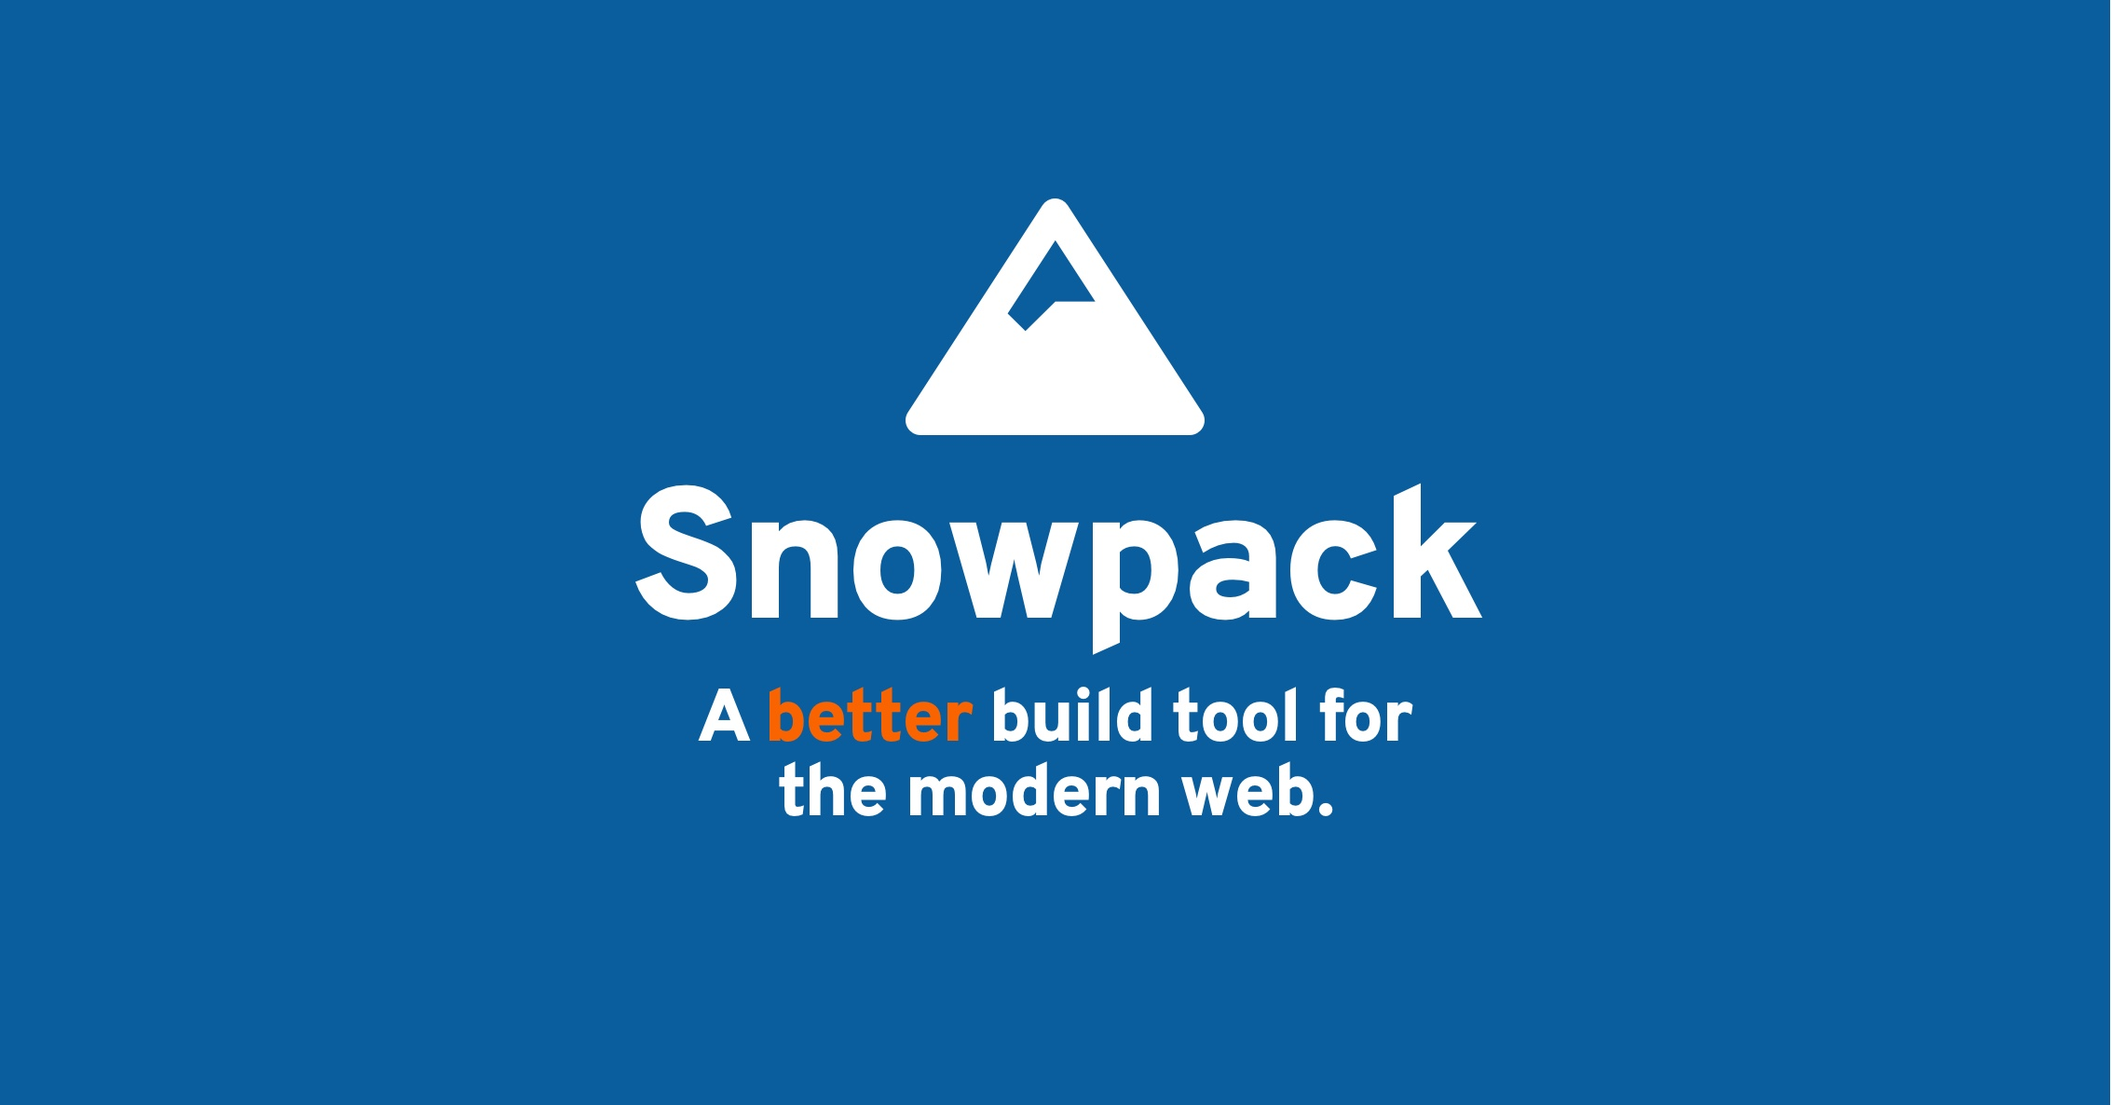
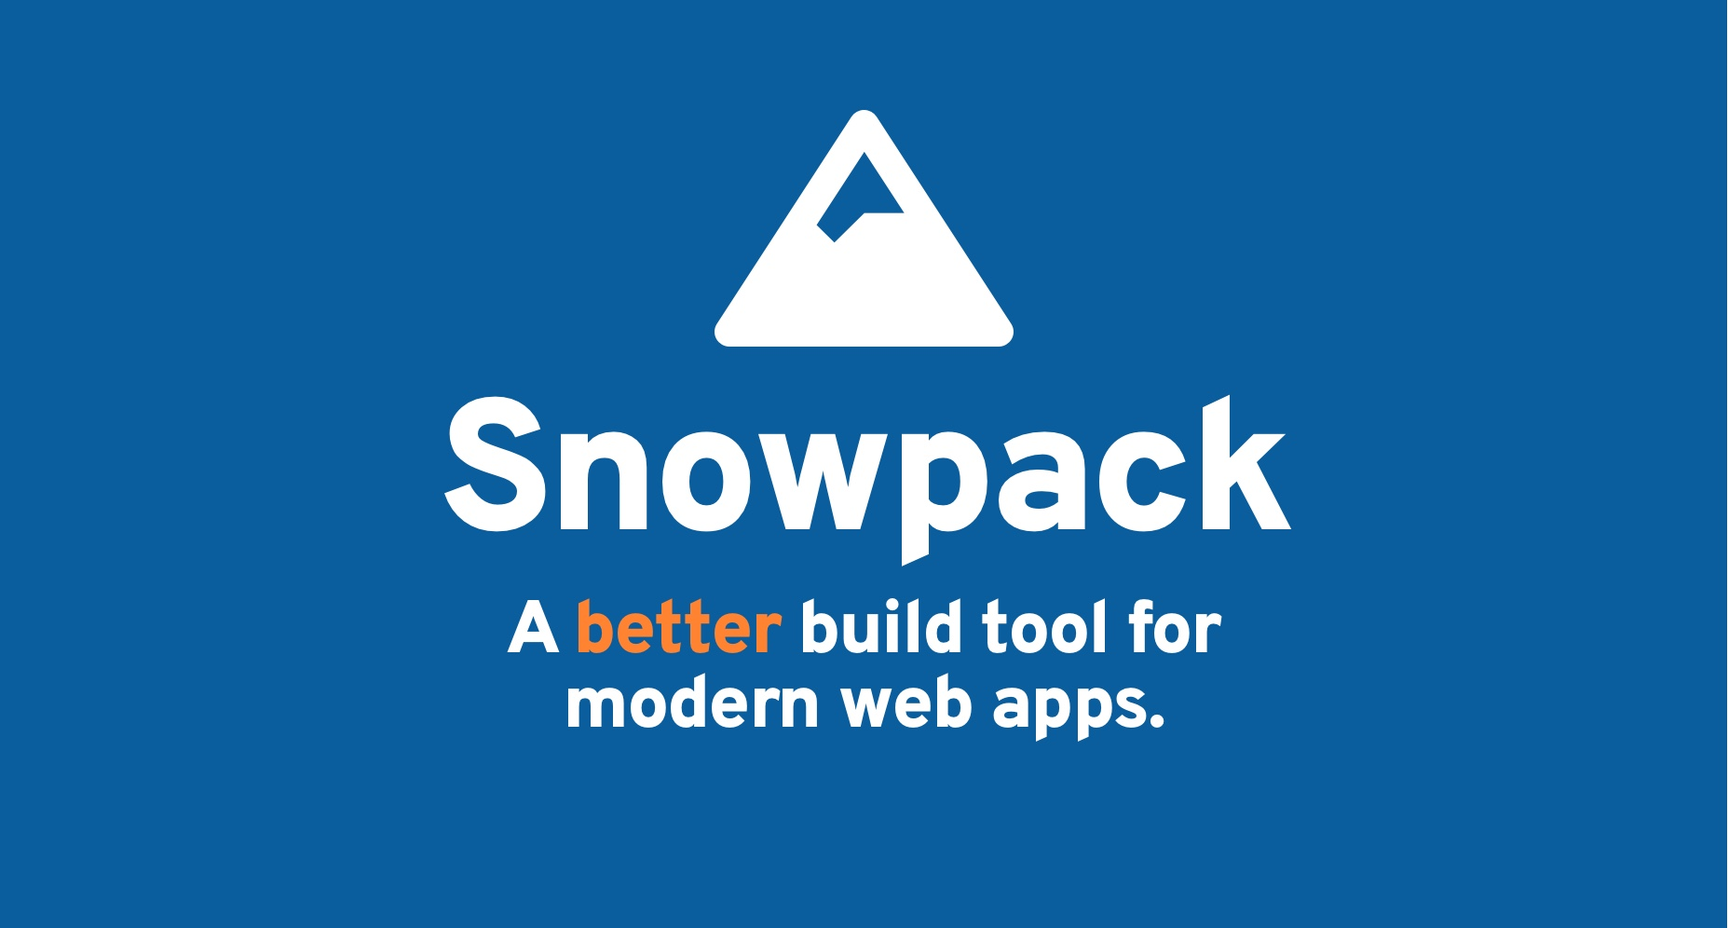
more updates

Changed region(s): [[0.25, 0.4046, 0.75, 0.8092], [0.4062, 0.1245, 0.5938, 0.4046]]

diff --git a/www/posts/2020-05-25-v2-release-day.md b/www/posts/2020-05-25-v2-release-day.md
@@ -2,15 +2,13 @@
 layout: layouts/post.njk
 ---
 
-After 40+ beta versions & release candidates we are so excited to introduce **Snowpack 2.0**, featuring:
+After 40+ beta versions & release candidates we are excited to introduce **Snowpack 2.0**, featuring:
 
-- A bundle-free web dev tool that starts up in 50ms or less.
-- A file build process that stays fast as your codebase grows.
-- [Bundled builds for production](/#snowpack-build) (powered by Webpack or Parcel)
-- [Hot Module Replacement (HMR)](/#hot-module-replacement) for React, Preact, Vue, Svelte & more.
-- Out-of-the-box support for TypeScript, JSX, CSS Modules & more.
+- A web app dev environment that starts up in **50ms or less.**
+- File changes are reflected in the browser [instantly.](/#hot-module-replacement) 
+- Integrates with your favorite bundler for [production builds](/#snowpack-build).
+- Out-of-the-box support for [TypeScript, JSX, CSS Modules and more.](/#features)
 - [Custom build scripts](/#build-scripts) & [third-party plugins](/#build-plugins) to connect your favorite tools.
-
 
 <br/>
 
@@ -18,17 +16,15 @@ After 40+ beta versions & release candidates we are so excited to introduce **Sn
 
 !["Rethink established best practices" tweet.](/img/react-snarky-tweet-2.png)
 
-"Rethink established best practices." That was the famous antagonistic tweet directed at the React team back when React & JSX were first announced in 2013.
+"Rethink established best practices" was a famous, antagonistic tweet directed at the React team back when React & JSX were first announced in 2013. It was meant as criticism, but the React team turned it into a rallying cry. Pete Hunt even named [an entire JSConf talk](https://www.youtube.com/watch?v=DgVS-zXgMTk) after it, explaining why "rethinking best practices" was exactly what the web needed. 7 years later, Pete was proven right.
 
-The Tweet was meant as a criticism of the project, but the React team turned it into a rallying cry. Pete Hunt even named [an entire JSConf talk](https://www.youtube.com/watch?v=DgVS-zXgMTk) after it, explaining why "rethinking best practices" was exactly what the web needed at that moment. 7 years later, Pete was proven right.
+**Snowpack is another attempt to challenge best practices, this time around web tooling.** The web has evolved over the last decade, but our build tooling hasn't kept up. The assumptions and limitations of the previous decade no longer fit the world we live in today. The result is a tooling ecosystem that's slower and more complex than it needs to be.
 
-**Snowpack set out to challenge best practices again, this time around web tooling.** The web has evolved over the last decade, but our build tooling hasn't kept up. The assumptions and limitations of the previous decade no longer fit the requirements of today.
-
-**Snowpack proves that web developers don't NEED a bundler to build complex web applications.** The idea that a bundler is *required* for any meaningful web development only goes back the last decade (with the rise of Browserify and later, Webpack). Snowpack is a return to the norm, where bundling is an optional production optimization available to those who want it
+**Snowpack takes a new approach to web development.** Instead of always running your application through a bundler, Snowpack lets you develop your application without one, shipping your code directly to the browser instead.
 
 <blockquote class="twitter-tweet" data-conversation="none" data-dnt="true"><p lang="en" dir="ltr">Check out the network tab to see unbundled development in action:<br><br>1⃣ App.js is changed<br>2⃣ App.js is refetched via HMR<br>3⃣ App.js is rebuilt from source<br>✅ Total time: a few milliseconds. <br><br>Zero bundling, rebundling, or multi-file compiling needed for the snappiest update possible</p>&mdash; Pika 📦 (@pikapkg) <a href="https://twitter.com/pikapkg/status/1264245654970232832?ref_src=twsrc%5Etfw">May 23, 2020</a></blockquote> <script async src="https://platform.twitter.com/widgets.js" charset="utf-8"></script>
 
-**Bundling during development slows you down.**  It may be hard to see, since most of us haven't done meaningful web development *without* a bundler in ages. But under the hood, bundled dev servers like `webpack-dev-server` & Create React App need to load, build, resolve and bundle your application before you can serve a single file. Smart caching can speed this up somewhat, but it's still common for a dev servers to take 30+ seconds to startup. And that's not even counting the time you spend re-bundling your application after you make a change, which can take another several seconds before you see those changes reflected in the browser.
+**Bundling during development slows you down.**  It may be hard to see, since most of us haven't done meaningful web development *without* a bundler in ages. But under the hood, bundled dev servers like `webpack-dev-server` & Create React App need to load, build, resolve and bundle your application before serving a single file. Smart caching can speed this up somewhat, but it's still common for a dev servers to take 30+ seconds to startup. And that's not even counting the time you spend re-bundling your application after you make a change, which can take another several seconds before you see those changes reflected in the browser.
 
 **You can think of bundling as a step with `O(n)` complexity:** As the size of your project grows, your bundler needs to do more work to startup your app. Depending on how your bundler is designed, it may even have `O(n^2)` complexity: as your project grows, your dev environment gets ***exponentially*** slower as it handles code splitting and every possible bundle permutation. Neither scenario is ideal when you're working iwth hundreds or even thousands of files. 
 
@@ -38,27 +34,26 @@ The Tweet was meant as a criticism of the project, but the React team turned it 
 
 Snowpack introduces a new, lighter workflow for web development that helps developers iterate faster with less tooling complexity.
 
-**Snowpack is a platform for O(1) build tooling.**  This is a term first coined by CodeSandbox's [Ives van Hoorne](https://www.youtube.com/watch?v=Yu9zcJJ4Uz0). His quote perfectly encapsulates our goals with Snowpack's workflow: when a file changes, it gets sent through a deterministic `input -> build -> output` workflow.
+**Snowpack is a platform for O(1) build tooling.**  This term was first coined by CodeSandbox's [Ives van Hoorne](https://www.youtube.com/watch?v=Yu9zcJJ4Uz0). His quote perfectly encapsulates our vision: when a file changes, it gets sent through a deterministic `input -> build -> output` workflow. This has several advantages over the traditional bundled approach:
 
-- O(1) build tooling is easier to reason about.
-- O(1) build tooling stays fast in large projects.
-- Caching files individually is more efficient.
+- O(1) builds are predictable.
+- O(1) builds are easier to configure.
+- O(1) builds stay fast in large projects.
+- Caching individual file builds is more efficient.
 - There's no multi-file rebuilding/rebundling to worry about.
 
-Pair this with a platform like Snowpack that builds individual files as requested by the browser, and you get a developer experience that's dramatically lighter-weight than your traditional, bundled dev server.
+Pair this with a platform like Snowpack that only builds files as they are requested by the browser, and you get a lightweight developer experience that will never cause your laptop fans to spin.
 
 
-## `dev` - A Better Dev Environment
+## A Better Dev Environment
 
 ![dev command output example](/img/snowpack-dev-startup-2.png)
 
-Run `snowpack dev` to start your dev environment, and the first thing you'll notice is **how flippin' fast it is.** Snowpack starts up instantly, usually in less than 20ms. 
+Run `snowpack dev` to start your dev environment and the first thing you'll notice is **how flippin' fast it is.** Snowpack starts up instantly, usually in less than 50ms. That's no typo: 50 milliseconds or less.
 
-That's right, 20ms. 
+Snowpack's dev server is fast because it only builds files upon request. On your first page load, Snowpack builds each requested file and then caches it for future use. Files are cached individually and only re-built when changed.
 
-This speed is possible since Snowpack only builds files upon request. On your first page load, Snowpack builds each requested file and then caches it for future use. Files are cached individually and only re-built when changed.
-
-`snowpack dev` includes a dev server for hosting, a fully customizable build pipeline for building, and a bunch more familiar features right out of the box:
+`snowpack dev` includes a dev server for hosting, a fully customizable build pipeline for building, and a bunch of familiar features right out of the box:
 
 - TypeScript Support
 - JSX Support
@@ -68,7 +63,10 @@ This speed is possible since Snowpack only builds files upon request. On your fi
 - Custom Routing
 - Proxying Requests
 
-**Build Scripts** are 1-line integrations to connect your favorite build tools into your Snowpack build. O(1)build tooling allow every file build to be expressed as a linear `input -> build -> output` workflow. This flow lets Snowpack pipe your files into and out of any existing UNIX-y CLI tools.
+
+## Customizing Your Build
+
+[Build Scripts](/#build-scripts) let you connect your favorite existing tools into your build pipeline. With Snowpack, you express every build as a linear `input -> build -> output` workflow. This allow Snowpack to pipe your files into and out of any existing UNIX-y CLI tools without the need for a special plugin ecosystem.
 
 
 ```js
@@ -82,29 +80,18 @@ This speed is possible since Snowpack only builds files upon request. On your fi
 }
 ```
 
-If you've ever used your `package.json` "scripts" config, this format should feel familiar. We love how `package.json` scripts use your CLIs directly without an unnecessary plugin system. We hope this pattern offers a similar intuitive path.
+If you've ever used your `package.json` "scripts" config, this format should feel familiar. We love the simplicity of using your CLIs directly without an unnecessary plugin system. We hope this pattern offers a similar intuitive design.
 
-**Build Plugins** are even more powerful JavaScript integrations for when no CLI exists or you just want to write your own integration. Build plugins gives you a clean JavaScript interface to extend your build.
-
-
-```js
-// snowpack.config.json
-{
-  // Connect Babel to your build to run every JS/JSX/TS/TSX file through it
-  "plugins": ["@snowpack/plugin-babel"]
-}
-```
-
-[Check out our full collection of official Snowpack plugins](https://github.com/pikapkg/create-snowpack-app/tree/master/packages), and consider writing your own.
+[Check out docs](/#build-scripts) to learn more about customizing your build.
 
 
-## `build` - Optimized, Bundled Builds
+## Bundling for Production
 
 ![build output example](/img/snowpack-build-example.png)
 
-Outside of development, there are still good reasons to bundle your web application.    File minification, compression, and network optimizations can all make your site run faster for your users.
+Snowpack isn't against bundling for production. In fact, we recommend it. File minification, compression, and network optimizations can all make a bundled site run faster for your users, which should be the ultimate goal for any application. 
 
-Run `snowpack build` to build your site for production. By default, Snowpack's build isn't bundled, but a single plugin can integrate Webpack, Parcel, or the bundler of your choice as the final step in your build.
+Snowpack maintains official plugins for both Webpack & Parcel. Connect your favorite, and then run `snowpack build` to build your site for production. 
 
 ```js
 // snowpack.config.json
@@ -114,10 +101,12 @@ Run `snowpack build` to build your site for production. By default, Snowpack's b
 }
 ```
 
+If you don't want to connect a bundler, that's okay too. Snowpack's default build will give you an unbundled site that also runs just fine. This is what the Snowpack project has been all about from the start: **Use a bundler because you want to, and not because you need to.**
+
 
 ## Try Snowpack Today
 
-Download Snowpack today to experience what we believe to be the future of web development.
+Download Snowpack today to experience the future of web development.
 
 ```
 npm i snowpack@latest --save-dev
@@ -125,6 +114,7 @@ npm i snowpack@latest --save-dev
 
 If you already have an existing Snowpack application, Snowpack 2.0 will walk you through updating any outdated configuration. Snowpack's original package installer still works as expected, and with the new `dev` & `build` commands Snowpack even manages your web packages for you.
 
+**[Check out our docs site to learn more.](https://www.snowpack.dev/)**
 
 #### Create Snowpack App
 

diff --git a/docs/03-usage.md b/docs/03-usage.md
@@ -2,6 +2,8 @@
 
 ### snowpack dev
 
+![dev command output example](/img/snowpack-dev-startup-2.png)
+
 Snowpack's dev server is an instant dev environment for any web application. `snowpack dev` stays fast by skipping all unecceary bundling during development and serving individual files directly to the browser. That means **zero** upfront startup cost: Snowpack only starts building your app when you make your first request. This scales especially well to large projects, where you'd otherwise commonly see 30+ second dev startup times with a traditional bundler.
 
 This magic is all possible thanks to Snowpack's npm package installer, which installs your packages so that they can run directly in the browser. When you develop or build your application, Snowpack automatically rewrites your imports to point to your Snowpack-installed, ready-to-run web dependencies.
@@ -21,6 +23,8 @@ Snowpack supports JSX & TypeScript source code by default, compiling your files 
 
 ### snowpack build
 
+![build output example](/img/snowpack-build-example.png)
+
 When you're ready to deploy your application, run `snowpack build` to generate a static production build of your site. Building is tightly integrated with your dev setup so that you are guaranteed to get a working copy of the same code you saw during development.
 
 The default output of the `snowpack build` command is an exact copy of your unbundled dev site. Deploying unbundled code is fine for simple sites, but you may want to optimize your site even further by bundling your final deployment for production. 
@@ -30,12 +34,7 @@ The default output of the `snowpack build` command is an exact copy of your unbu
 
 ### snowpack install
 
-Snowpack originally became famous for it's npm package install. Since then, the installer has been integrated directly into the `dev` & `build` workflows so that you no longer need to run the Snowpack installer yourself. Feel free to skip this section and come back later: you probably won't ever need to run this command.
-
-But, if you want to run the installer yourself, `snowpack install` will install your dependencies into a new `web_modules/` directory. Snowpack will scan your project for ESM `import` statements to find every npm package used by your application. You can also provide a list of package names manually via the ["install"](#all-config-options) config.
-
 ``` bash
-# Example: Snowpack detects `import 'react'` & `import 'react-dom'` statements in your "src/" code.
 ✔ snowpack install complete. [0.88s]
 
   ⦿ web_modules/                 size       gzip       brotli   
@@ -45,7 +44,12 @@ But, if you want to run the installer yourself, `snowpack install` will install 
     └─ index-8961bd84.js         10.83 KB   3.96 KB    3.51 KB    
 ```
 
-From here, any `web_modules/` package can be imported and run directly in the browser with zero additional bundling or tooling required. This ability to import npm packages natively in the browser (without a bundler) is the foundation that all no-bundle development (and the rest of Snowpack) is built on top of.
+
+Snowpack originally became famous for it's npm package install. Since then, the installer has been integrated directly into the `dev` & `build` workflows so that you no longer need to run the Snowpack installer yourself. Feel free to skip this section and come back later: you probably won't ever need to run this command.
+
+You can run the installer yourself via `snowpack install`. This will install your dependencies into a new top-level `web_modules/` directory in your project. To figure out which dependencies you need, Snowpack will scan your project for ESM `import` statements to find every npm package used by your application. You can also provide a list of package names manually via the ["install"](#all-config-options) config.
+
+After installing, any `web_modules/` package can be imported and run directly in the browser with zero additional bundling or tooling required. This ability to import npm packages natively in the browser (without a bundler) is the foundation that all no-bundle development (and the rest of Snowpack) is built on top of.
 
 ``` html
 <!-- This runs directly in the browser! -->
@@ -55,4 +59,4 @@ From here, any `web_modules/` package can be imported and run directly in the br
 </script>
 ```
 
-Again, all of this is built into Snowpack `dev` & `build` commands by default. But, you can use the `install` command to install & manage web-ready npm packages for your own dev server or build pipeline.
+Again, all of this is built into Snowpack `dev` & `build` commands by default. But, you can use the `install` command to provide web-ready npm packages for your own dev server or build pipeline.

diff --git a/docs/04-features.md b/docs/04-features.md
@@ -110,15 +110,15 @@ Learn more about [Build Script integrations](#build-scripts).
 
 #### Compile to JavaScript
 
-When you write your web app with JSX, Snowpack will automatically build all `.jsx` & `.tsx` files to JavaScript during development and production builds. This works for both React & Preact as long as the file includes an import of React or Preact. 
+Snowpack automatically builds all `.jsx` & `.tsx` files to JavaScript during development and production builds. This works with both React & Preact as long as the file includes an import of React or Preact. 
 
-**Note: JSX must live in `.jsx` files.** JSX in `.js` files is not supported.
+**Note: JSX must live in `.jsx`/`.tsx` files.** JSX in a `.js` file is not currently supported.
 
-If needed, you can optionally define your own JSX->JavaScript build step via a [Build Script integration](#build-scripts).
+You could also choose to define your own JSX->JavaScript build step via a [Build Script integration](#build-scripts).
 
 ```js
 // snowpack.config.json
-// Optional: Build JSX files with Babel (must define your own babel.config.json)
+// Optional: You can define your own JSX build step if you'd like.
 {
   "scripts": {
     "build:jsx": "babel --filename $FILE",
@@ -130,13 +130,13 @@ If needed, you can optionally define your own JSX->JavaScript build step via a [
 
 #### Compile to JavaScript
 
-Write your web app with TypeScript, and Snowpack will automatically build all `.ts` & `.tsx` files to JavaScript. Snowpack will not perform any type checking by default (see below), only building from TS->JS.
+Snowpack automatically builds all `.ts` & `.tsx` files to JavaScript. Snowpack will not perform any type checking by default (see below), only building from TS->JS.
 
-If needed, you can optionally define your ownTS->JS build step via a [Build Script integration](#build-scripts).
+You could also choose to define your own JSX->JavaScript build step via a [Build Script integration](#build-scripts).
 
 ```js
 // snowpack.config.json
-// Optional: Build TS & TSX files with Babel (must define your own babel.config.json)
+// Optional: You can define your own TS build step if you'd like.
 {
   "scripts": {
     "build:ts,tsx": "babel --filename $FILE",

diff --git a/docs/01-introduction.md b/docs/01-introduction.md
@@ -18,21 +18,18 @@
 
 ### What is Snowpack?
 
-**Snowpack is a web app build tool that works without bundling.** Thanks to [ESM imports](https://developer.mozilla.org/en-US/docs/Web/JavaScript/Reference/Statements/import) Snowpack is able to remove the expensive (and unnecesary) bundling step from your dev workflow. That means no startup time spent waiting for your application to bundle PLUS no time wasted rebundling on every change.
+**Snowpack is a build tool for modern web apps.** Developing your application with Snowpack gets you the fastest dev environment on the planet today. Snowpack leverages [ESM imports](https://developer.mozilla.org/en-US/docs/Web/JavaScript/Reference/Statements/import) in your application to remove all unnecessary bundling work from your dev workflow. The end result is a build tool that starts up instantly and wastes no time rebundling multiple files on every change.
 
-The result is a developer experience that starts up fast, stays fast, and still bundles/optimizes your production builds.
-
-[Check out our launch post](/posts/2020-05-25-v2-release-day?utm_source=origin&utm_medium=banner&utm_campaign=2.0-launch) to learn more.
+<!--[Check out our launch post](/posts/2020-05-25-v2-release-day?utm_source=origin&utm_medium=banner&utm_campaign=2.0-launch) to learn more.-->
 
 
 ### Key Features
 
-- No dev bundling = **<50ms dev server startup**
-- Instant rebuilds on save (Nothing to rebundle!)
-- Stays fast as your codebase grows
-- Built-in [Hot Module Replacement (HMR)](#hot-module-replacement)
-- [Custom build scripts](#build-scripts) & [third-party plugins](#build-plugins)
-- Bundled production builds
+- A dev environment that starts up in **50ms or less.**
+- File changes are reflected in the browser [instantly.](/#hot-module-replacement) 
+- Integrates with your favorite bundler for [production builds](/#snowpack-build).
+- Out-of-the-box support for [TypeScript, JSX, CSS Modules and more.](/#features)
+- [Custom build scripts](/#build-scripts) & [third-party plugins](/#build-plugins) to connect your favorite tools.
 
 ### Library Support
 
